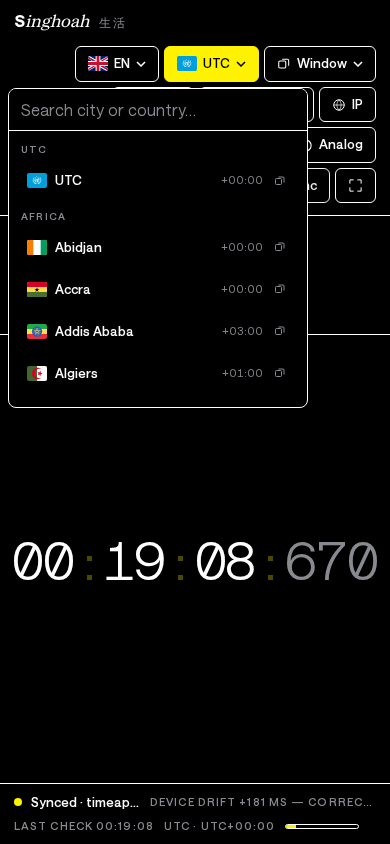
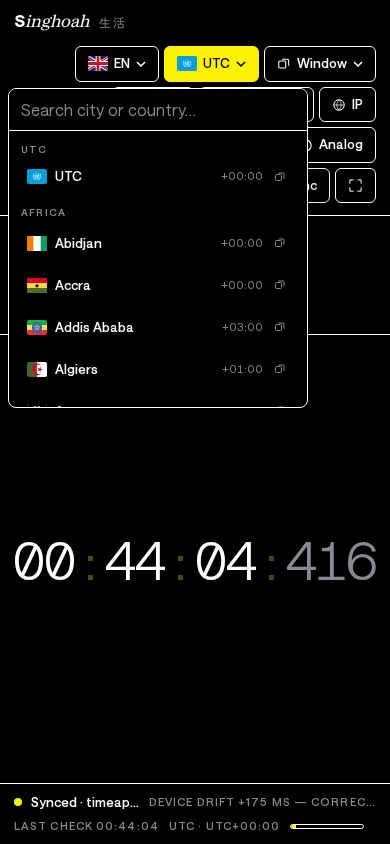
Scroll-snap the dropdown lists so they always settle on clean row boundaries (no half-clipped rows mid-scroll)

diff --git a/launch-standalone.html b/launch-standalone.html
@@ -173,7 +173,9 @@ button { font: inherit; color: inherit; }
   padding: 4px;
   scrollbar-width: none;      /* scroll via wheel/touch; no visible bar */
   -ms-overflow-style: none;
+  scroll-snap-type: y mandatory;   /* always settle on a clean row boundary */
 }
+.tz-list > * { scroll-snap-align: start; }
 .tz-list::-webkit-scrollbar { display: none; width: 0; height: 0; }
 
 .tz-group {
@@ -559,7 +561,8 @@ button { font: inherit; color: inherit; }
   margin-bottom: 6px;
 }
 .wal-cur-search::placeholder { color: var(--pigeon); }
-.wal-cur-list { max-height: 240px; overflow: auto; padding: 2px; }
+.wal-cur-list { max-height: 240px; overflow: auto; padding: 2px; scroll-snap-type: y mandatory; }
+.wal-cur-list > * { scroll-snap-align: start; }
 .cur-row.sel-cur { background: var(--paper-2); }
 
 /* ---------- wallet as a full-page app ---------- */

diff --git a/src/styles.css b/src/styles.css
@@ -151,7 +151,9 @@ button { font: inherit; color: inherit; }
   padding: 4px;
   scrollbar-width: none;      /* scroll via wheel/touch; no visible bar */
   -ms-overflow-style: none;
+  scroll-snap-type: y mandatory;   /* always settle on a clean row boundary */
 }
+.tz-list > * { scroll-snap-align: start; }
 .tz-list::-webkit-scrollbar { display: none; width: 0; height: 0; }
 
 .tz-group {
@@ -537,7 +539,8 @@ button { font: inherit; color: inherit; }
   margin-bottom: 6px;
 }
 .wal-cur-search::placeholder { color: var(--pigeon); }
-.wal-cur-list { max-height: 240px; overflow: auto; padding: 2px; }
+.wal-cur-list { max-height: 240px; overflow: auto; padding: 2px; scroll-snap-type: y mandatory; }
+.wal-cur-list > * { scroll-snap-align: start; }
 .cur-row.sel-cur { background: var(--paper-2); }
 
 /* ---------- wallet as a full-page app ---------- */

diff --git a/standalone.html b/standalone.html
@@ -183,7 +183,9 @@ button { font: inherit; color: inherit; }
   padding: 4px;
   scrollbar-width: none;      /* scroll via wheel/touch; no visible bar */
   -ms-overflow-style: none;
+  scroll-snap-type: y mandatory;   /* always settle on a clean row boundary */
 }
+.tz-list > * { scroll-snap-align: start; }
 .tz-list::-webkit-scrollbar { display: none; width: 0; height: 0; }
 
 .tz-group {
@@ -569,7 +571,8 @@ button { font: inherit; color: inherit; }
   margin-bottom: 6px;
 }
 .wal-cur-search::placeholder { color: var(--pigeon); }
-.wal-cur-list { max-height: 240px; overflow: auto; padding: 2px; }
+.wal-cur-list { max-height: 240px; overflow: auto; padding: 2px; scroll-snap-type: y mandatory; }
+.wal-cur-list > * { scroll-snap-align: start; }
 .cur-row.sel-cur { background: var(--paper-2); }
 
 /* ---------- wallet as a full-page app ---------- */

diff --git a/styles.css b/styles.css
@@ -151,7 +151,9 @@ button { font: inherit; color: inherit; }
   padding: 4px;
   scrollbar-width: none;      /* scroll via wheel/touch; no visible bar */
   -ms-overflow-style: none;
+  scroll-snap-type: y mandatory;   /* always settle on a clean row boundary */
 }
+.tz-list > * { scroll-snap-align: start; }
 .tz-list::-webkit-scrollbar { display: none; width: 0; height: 0; }
 
 .tz-group {
@@ -537,7 +539,8 @@ button { font: inherit; color: inherit; }
   margin-bottom: 6px;
 }
 .wal-cur-search::placeholder { color: var(--pigeon); }
-.wal-cur-list { max-height: 240px; overflow: auto; padding: 2px; }
+.wal-cur-list { max-height: 240px; overflow: auto; padding: 2px; scroll-snap-type: y mandatory; }
+.wal-cur-list > * { scroll-snap-align: start; }
 .cur-row.sel-cur { background: var(--paper-2); }
 
 /* ---------- wallet as a full-page app ---------- */

diff --git a/wallet-standalone.html b/wallet-standalone.html
@@ -174,7 +174,9 @@ button { font: inherit; color: inherit; }
   padding: 4px;
   scrollbar-width: none;      /* scroll via wheel/touch; no visible bar */
   -ms-overflow-style: none;
+  scroll-snap-type: y mandatory;   /* always settle on a clean row boundary */
 }
+.tz-list > * { scroll-snap-align: start; }
 .tz-list::-webkit-scrollbar { display: none; width: 0; height: 0; }
 
 .tz-group {
@@ -560,7 +562,8 @@ button { font: inherit; color: inherit; }
   margin-bottom: 6px;
 }
 .wal-cur-search::placeholder { color: var(--pigeon); }
-.wal-cur-list { max-height: 240px; overflow: auto; padding: 2px; }
+.wal-cur-list { max-height: 240px; overflow: auto; padding: 2px; scroll-snap-type: y mandatory; }
+.wal-cur-list > * { scroll-snap-align: start; }
 .cur-row.sel-cur { background: var(--paper-2); }
 
 /* ---------- wallet as a full-page app ---------- */

diff --git a/README.md b/README.md
@@ -118,7 +118,7 @@ The committed files in this folder are already built — just serve the folder.
 
 ```sh
 npm test          # 29 unit tests for formatting, zones, flags, i18n, sync, layouts, hands, timers, stopwatch, map, wallet
-npm run test:browser   # 128 checks in real Chromium, incl. touch-emulated phone (needs the server above)
+npm run test:browser   # 129 checks in real Chromium, incl. touch-emulated phone (needs the server above)
 ```
 
 The browser suite verifies the format, that the display equals the system clock,
